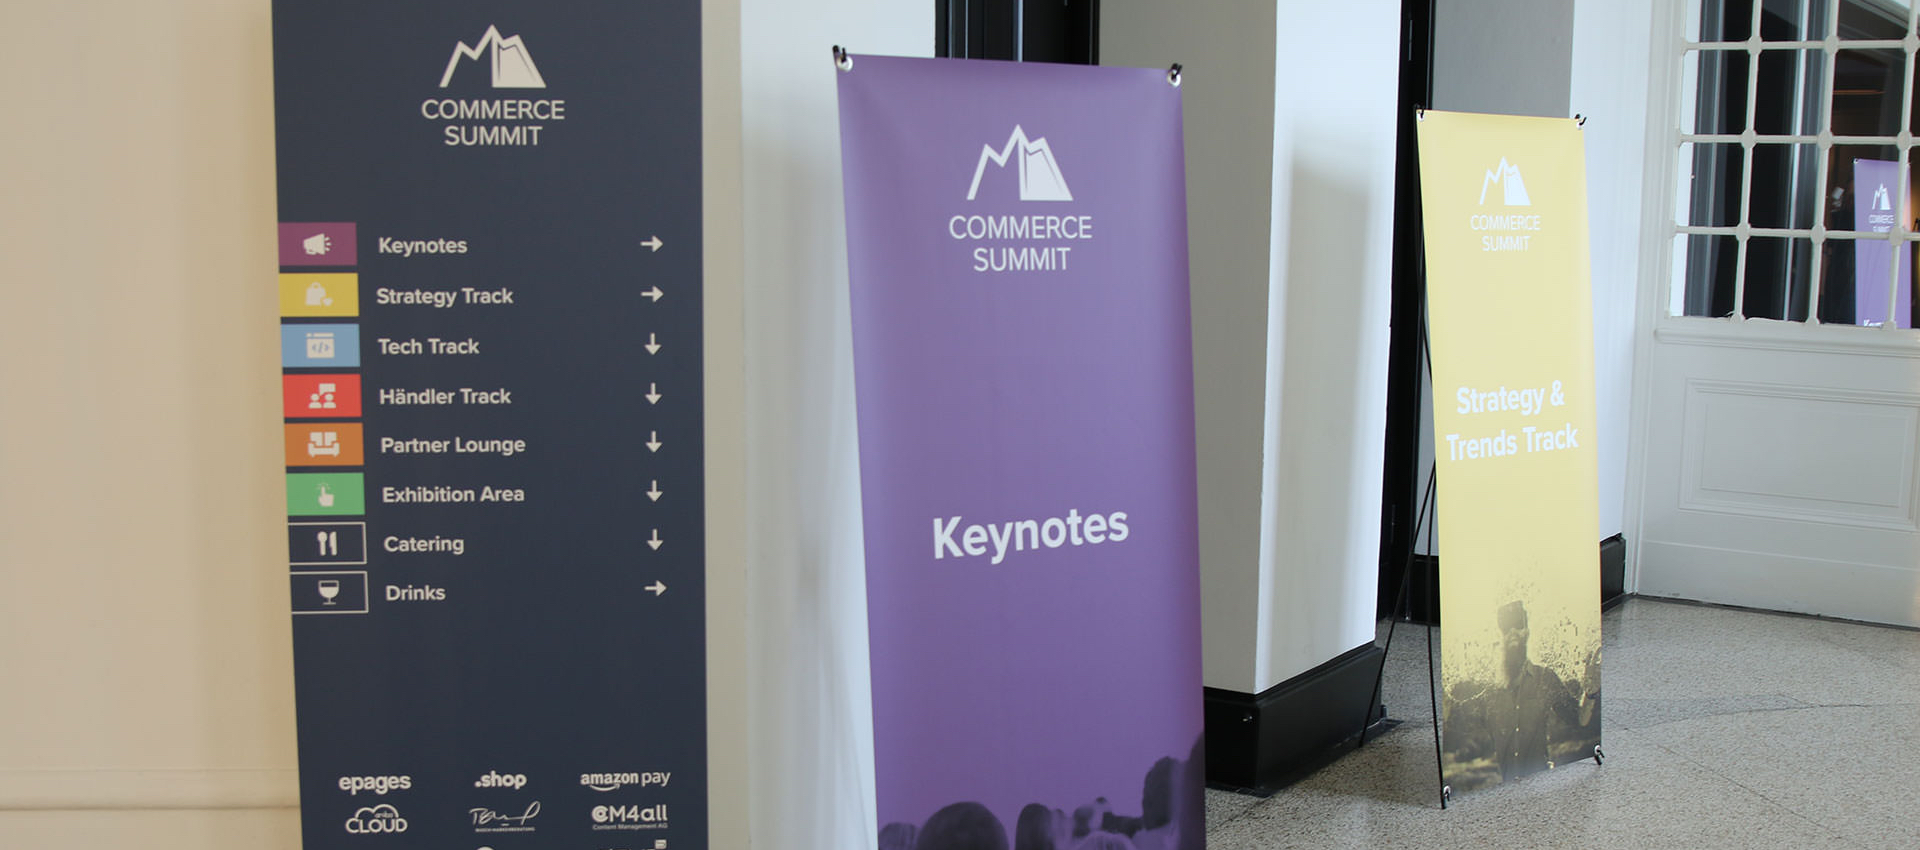
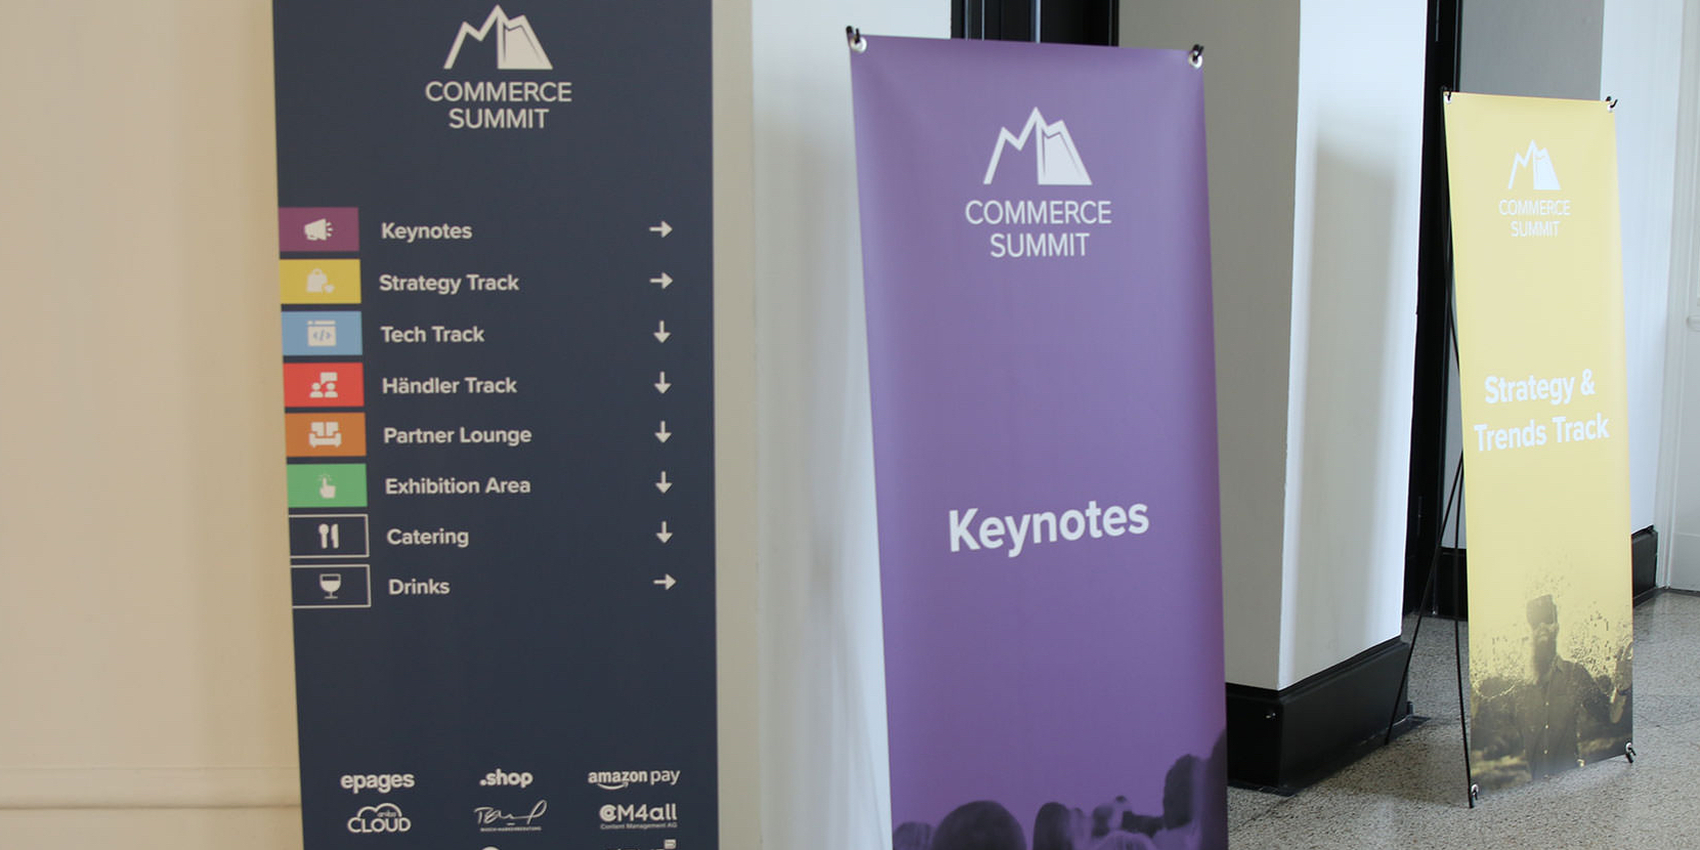
Maintain epages-docs
UC-570

* Polish some blog post sentences
* Resize blog header image
* Update events section

diff --git a/_posts/2017/2017-09-27-commerce-summit-lets-start-now.md b/_posts/2017/2017-09-27-commerce-summit-lets-start-now.md
@@ -16,7 +16,7 @@ authors: ["Christina"]
 
 Two days of interesting talks about the current state of the art and the future of ecommerce with international speakers from all fields.
 An event that allows interdisciplinary and fascinating chats between developers, merchants, partners, and many more.
-That has been the Commerce Summit 2017 hosted by [epages](https://www.epages.com/) in Hamburg.
+That has been the Commerce Summit 2017 hosted by [ePages](https://www.epages.com/) in Hamburg.
 The [agenda](https://www.commerce-summit.com/en/agenda/) was separated into three tracks:
 * Technology-Track
 * Merchant-Track
@@ -30,32 +30,32 @@ During the presentation he stressed out the importance of microservices for a we
 <blockquote class="twitter-tweet" data-lang="de"><p lang="en" dir="ltr">CTO <a href="https://twitter.com/netzfisch">@netzfisch</a> is introducing our API-First approach of our new <a href="https://twitter.com/epages">@epages</a> architecture. Room is packed! <a href="https://twitter.com/hashtag/commercesummit?src=hash">#commercesummit</a> <a href="https://t.co/0tyDAQ60vs">pic.twitter.com/0tyDAQ60vs</a></p>&mdash; Jens Fischer (@jensfischerhh) <a href="https://twitter.com/jensfischerhh/status/910795524508352512">21. September 2017</a></blockquote>
 <script async src="//platform.twitter.com/widgets.js" charset="utf-8"></script>
 
-After this overview of the current development status at ePages, two of our ePages developers took over and gave further insights into the micro- and macro-architecture of our microservices system.
-Another talk dealt with the customization of an onlineshop using CSS and different settings for themes.
-This way, customers can adapt their shops to their personal taste or company guidelines easily.
+After this overview of the current development status at ePages, two of our developers took over and gave further insights into the micro- and macro-architecture of our microservices system.
+Another talk dealt with the customization of an online shop using CSS and different settings for themes.
+This way, customers can easily adapt their shops to their personal taste or to company guidelines.
 The talk was followed by a live coding session of a [Python app](ttps://github.com/ooz/epages-rest-python-examples/tree/master/beautiful_order_documents) against the API of ePages [NOW](https://developer.epages.com/apps) and [Beyond](https://s3.eu-central-1.amazonaws.com/new-docu-epages/index.html).
 
-Already sounds interesting to you?
+Does that sound interesting to you already?
 That's not all!
-The first day ended with an exiting topic that took up the ongoing discussion of the future of ecommerce.
+The first day ended with an exciting topic that took up the ongoing discussion of the future of ecommerce.
 How will it look like?
 Which devices will be used?
-One of our ePages developers had a chat with [Amazons Alexa](https://developer.amazon.com/alexa) and enabled her to assist a merchant with organizing their onlineshop.
+One of our developers had a chat with [Amazons Alexa](https://developer.amazon.com/alexa) and enabled her to assist a merchant with organizing their online shop.
 Alexa informed about incoming orders in detail and was able to process them according to the merchants wishes.
 Cool stuff, isn't it?
 
 ## Party time
 
 After such an interesting and successful first day, we had several reasons to celebrate.
-ePages had its 30. birthday AND ePages NOW was finally launched after years of hard work.
-To bring the crowd in the right mood, we had a [fantastic act from Reeperbahn festival](http://betsymusic.co.uk/).
+ePages had its 30th birthday, **and** ePages NOW was finally launched after years of hard work.
+To bring the crowd in the right mood, we had a [fantastic act from the Reeperbahn festival](http://betsymusic.co.uk/).
 
 ## The day after
 
 The second day started just like the first one ended.
-Luis Gomes went even one step further than a voice activated assistant like Alexa and had a look at the [Microsoft HoloLens](https://developer.microsoft.com/en-us/windows/mixed-reality/).
-He created a scenario of a customer looking for a new tv using a HoloLens.
-The customer was able to have a 3D view of the tv and get relevant information right next to it.
+Luis Gomes went even one step further than a voice activated assistant such as Alexa and had a look at the [Microsoft HoloLens](https://developer.microsoft.com/en-us/windows/mixed-reality/).
+He created a scenario of a customer looking for a new TV using a HoloLens.
+The customer was able to have a 3D view of the TV and receive relevant information right next to it.
 To make this possible, Gomes even admitted having installed Windows - on his MAC!
 So, playing around with the HoloLens really seems to be fun.
 
@@ -64,7 +64,7 @@ So, playing around with the HoloLens really seems to be fun.
 
 Besides this futuristic talk, there have been some others during the day.
 For example, [Aruba cloud](https://www.arubacloud.com/), [Shipcloud](https://www.shipcloud.io/), and [Honico](https://www.honico.com/en/home.html) presented their products and possibilities for developers.
-And let's not forget all the other interesting talks of the other two tracks.
+And not to forget all the other interesting talks of the other two tracks.
 If you wanted to see them all, you had a tough time schedule.
 
 ## Time for a breather
@@ -74,13 +74,13 @@ Luckily, there have been some side activities to free the minds.
 So why not try to beat national player [Oke Harms](https://www.kickerkult.de/epages/61190833.sf/de_DE/?ObjectPath=Categories) in table football?
 Or find your own rhythm on the [drums](http://bodrum-webshop.de/)?
 Or just have a chat with the exhibitors after filling your tummy with delicious food?
-It was up to everybody to shape their day.
+Visitors had lots of freedom to shape their day.
 
 ## The kebab case
 
-Getting together so many people from different areas lead to an intensive exchange of opinions and ideas.
-The direct contact between ePagees, merchants, partners and other developers allowed interesting discussions at the bar tables and a mixed audience in the talks.
-Thus, a non-developer like me for example finally got to know the kebab case while listening to one of the Tech-Track talks and developers had to think about sex and shopping when listening to Graham Jones in the Strategy-Track.
+This gathering of so many people from different areas lead to an intensive exchange of opinions and ideas.
+The direct contact between ePagees, merchants, partners, and developers allowed interesting discussions at the bar tables and a mixed audience in the talks.
+Thus, a non-developer like me for example finally learned about the kebab case while listening to one of the Tech-Track talks, whereas developers had to think about sex and shopping when listening to [Graham Jones](https://www.grahamjones.co.uk/) in the Strategy-Track.
 Who would have thought that before?
 
 So, I'm already looking forward to the next Commerce Summit and so should you!

diff --git a/_posts/2017/2017-10-05-codetalks-2017-back-on-the-big-screen.md b/_posts/2017/2017-10-05-codetalks-2017-back-on-the-big-screen.md
@@ -26,7 +26,7 @@ It seems that cosy seats, popcorn, and nachos are things that most of the attend
 
 Here are our highlights of this year's code.talks edition.
 
-### 10 Tips for failing at microservices
+### 10 tips for failing at microservices
 
 Two years ago, microservices was one of the main topics of the code.talks.
 Everybody talked about it but very few actually had production experience.
@@ -51,7 +51,7 @@ It was an entertaining quick tour to get to know Kotlin that made me look forwar
 
 ### Die Monade und Du (The Monad and You)
 
-Who always pondered how an application that runs over animals on the texanian highway could be ideally structured will be able to find answers to that question in [Michael Sperber](https://twitter.com/sperbsen)'s talks.
+Who always pondered how an application that runs over animals on the Texas Highway could be ideally structured will be able to find answers to that question in [Michael Sperber](https://twitter.com/sperbsen)'s talks.
 In his contribution to the code.talks 2016 _["Developing more efficiently with Functional Programming"](https://developer.epages.com/blog/2016/10/07/code-talks-2016-retrospective.html)_ Michael already talked about functional programming and how useful its main principles are.
 
 <blockquote class="twitter-tweet" data-lang="de"><p lang="en" dir="ltr">Again impressed by how lightweight and easy to understand functional programs can be. Thx <a href="https://twitter.com/sperbsen?ref_src=twsrc%5Etfw">@sperbsen</a> for this talk on monads <a href="https://twitter.com/hashtag/codetalkshh?src=hash&amp;ref_src=twsrc%5Etfw">#codetalkshh</a></p>&mdash; Timo E aus E (@timo_e_aus_e) <a href="https://twitter.com/timo_e_aus_e/status/913426902404288512?ref_src=twsrc%5Etfw">28. September 2017</a></blockquote>
